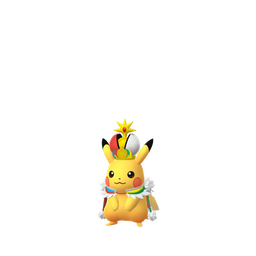
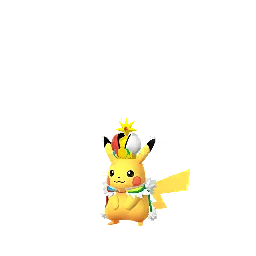
v3.51: Final PokémonXP & 2026 Worlds Pikachu sprites
- Replace the two costume Pikachu sprites with final art (regular + shiny): Cosmog-themed spacesuit Pikachu (0025_cosmog-spacesuit) and World Championships 2026 Pikachu (0025_worlds2026), converted from official 256x256 sources, transparency preserved
- Cache version bump to 3.51 (app.js + sw.js) so returning visitors' caches refresh to the new sprites (filenames unchanged from 3.50)

Changed region(s): [[0.375, 0.4375, 0.75, 0.9062]]

diff --git a/app.js b/app.js
@@ -1,7 +1,7 @@
 // --- CONSTANTS ---
 const COMMUNITY_NAME = "TrainerWire";
 const COMMUNITY_TAGLINE = "Your Local Pokémon GO Event & News Center";
-const APP_VERSION = "3.50";
+const APP_VERSION = "3.51";
 const REPORT_EMAIL = "reportissue2trainerwire@gmail.com";
 
 // --- POKEMON IMAGE LOOKUP ---
@@ -877,7 +877,7 @@ function buildThunderousDiscovery(teamHat) {
 // --- EVENT DATA ---
 const EVENTS = [
   { id: 148, title: "Pokémon GO Fest: Mega Finale", type: "GO Fest", url: "https://pokemongo.com/en/news/gofest2026-finale-save-the-date", date: "2026-09-05", endDate: "2026-09-06", time: "Time TBA", whenText: "Saturday, September 5 to Sunday, September 6, 2026. Event hours to be announced.", color: "#6C5CE7", icon: "🎉", iconImg: "assets/pokemon-images/GO-Fest/2026/gofest-2026-mega-finale-badge.png", featured: true, published: "2026-07-18", updated: "2026-07-28", lastUpdated: "July 28, 2026 at 11:44 AM", summary: "Save the date! Pokémon GO Fest 2026 wraps up with the Mega Finale on September 5–6, 2026. Event hours and full details to be announced.", details: { bosses: ["Details: TBA"], bonuses: ["Event features and bonuses to be announced"], tips: ["Save the date — September 5–6, 2026 (Saturday & Sunday).", "Event hours and full details will be announced closer to the date."] } },
-  { id: 125, title: "PokémonXP & 2026 Worlds", type: "Event", url: "https://pokemongo.com/en/news/world-championships-event-2026", date: "2026-08-25", endDate: "2026-08-30", startsAt: "2026-08-25T10:00:00", endsAt: "2026-08-30T20:00:00", published: "2026-07-22", updated: "2026-08-05", lastUpdated: "August 5, 2026 at 1:55 PM", time: "Aug 25 – Aug 30", whenText: "PokémonXP runs Tuesday, August 25 at 10:00 a.m. to Friday, August 28 at 10:00 a.m., and the World Championships event runs Friday, August 28 at 10:00 a.m. to Sunday, August 30 at 8:00 p.m., all local time. The 2026 Pokémon World Championships are held August 28–30 in San Francisco, California, with live streams starting at 9:00 a.m. PDT each day.", color: "#8E44AD", icon: "🏆", featured: false, summary: "Pokémon GO celebrates PokémonXP and the 2026 Pokémon World Championships! The top qualifying players from around the globe compete August 28–30 in San Francisco to be crowned the 2026 Pokémon GO World Champion, with the winner earning the World Champion 2026 avatar outfit. In-game, the PokémonXP event runs August 25–28 and the World Championships event runs August 28–30 — featuring two new costumed Pikachu, themed wild encounters and one-star raids, a free PokémonXP & 2026 Worlds GO Pass, boosted GO Battle League bonuses, Championship-exclusive featured attacks, and watch-reward Timed Research.", details: { bossesTitle: "Featured Pokémon", bosses: ["Pikachu wearing a Cosmog-themed spacesuit (1★ Raid) ✨", "World Championships 2026 Pikachu (1★ Raid) ✨", "Impidimp (1★ Raid)", "Honedge (1★ Raid)", "Ralts ✨", "Numel ✨", "Spheal ✨", "Drifloon ✨", "Elgyem ✨", "Sobble ✨", "Pawmi ✨", "Deino ✨", "Alolan Sandshrew ✨", "Mankey ✨", "Lickitung ✨", "Totodile ✨", "Wooper ✨", "Foongus ✨", "Froakie ✨", "Litten ✨", "Togetic ✨", "Beldum ✨"], bonuses: ["GO Battle League: the maximum number of daily battle sets increases from 5 to 15 (up to 75 battles per day).", "GO Battle League reward Pokémon have a wider variance of Attack, Defense, and HP.", "No daily limit on GO Points earned from August 29 at 12:00 a.m. through August 30 at 7:59 p.m.", "Event-themed Stickers available from PokéStops, Gifts, and the in-game shop."], milestones: [{ tier: "Starting at Rank 10", bonus: "2× Stardust for catching Pokémon" }, { tier: "Starting at Rank 20", bonus: "Free GO Pass: an additional 3,000 XP from raids", deluxe: "Up to two additional free Raid Passes from spinning Gym Photo Discs" }], goPass: { free: ["Automatically received August 25 at 10:00 a.m. local time", "Collect GO Points to rank up and earn event-themed Pokémon encounters", "Rewards expire September 1 at 7:59 p.m. local time — claim them before they're gone"], deluxe: { price: "$4.99", rewards: ["Upgraded rewards and faster progression", "PokémonXP & 2026 Worlds Backpack avatar item", "Zapdos encounter with a wider stat variance", "Additional event-themed Pokémon encounters", "Additional exclusive items"] }, deluxePlus: { price: "$6.99", rewards: ["Everything in GO Pass Deluxe", "Automatic advancement to Rank 7"] } }, tips: ["PokémonXP (Aug 25–28) wild encounters: Ralts, Numel, Spheal, Drifloon, Elgyem, Sobble, Pawmi, and — more rarely — Deino. If you're lucky, you may find a Shiny!", "PokémonXP (Aug 25–28) one-star raids: Pikachu wearing a Cosmog-themed spacesuit and Impidimp.", "World Championships (Aug 28–30) wild encounters: Alolan Sandshrew, Mankey, Lickitung, Totodile, Wooper, Foongus, Froakie, Litten, and — more rarely — Togetic and Beldum. If you're lucky, you may find a Shiny!", "World Championships (Aug 28–30) one-star raids: Pikachu wearing a Cosmog-themed spacesuit, World Championships 2026 Pikachu, and Honedge.", "New costumed Pikachu debut this event: Pikachu wearing a Cosmog-themed spacesuit and World Championships 2026 Pikachu.", "Featured Attacks — Fast: Alolan Sandslash learns Shadow Claw; Walrein learns Powder Snow.", "Featured Attacks — Charged: Primeape (Rage Fist), Lickitung (Body Slam), Feraligatr (Hydro Cannon), Quagsire (Aqua Tail), Gardevoir (Synchronoise), Walrein (Icicle Spear), Metagross (Meteor Mash), Lickilicky (Body Slam), Togekiss (Aura Sphere), Gallade (Synchronoise), Hydreigon (Brutal Swing), Greninja (Hydro Cannon), Decidueye (Frenzy Plant), Incineroar (Blast Burn), Inteleon (Hydro Cannon), Corviknight (Air Cutter), Annihilape (Rage Fist).", "Timed Research — Team Building: Great League Bonus: watch 30 minutes to choose a Lickitung, Totodile, or Paldean Wooper team-building branch.", "Timed Research — 2025 World Champion's: watch 60 minutes for Tinkaton (used by 2025 Champion Beezleboy, with a unique background) plus an Elite Charged TM.", "Timed Research — Greetings from San Francisco! Bonus: watch 45 minutes (via official co-streamers) for a World Championships 2026 Pikachu encounter.", "Timed Research — PokémonXP: watch 30 minutes on the PokémonXP Twitch channel (Saturday, August 29) for a Pikachu wearing a Cosmog-themed spacesuit.", "Free avatar item: redeem a code shared during the World Championships broadcast for the 2026 Worlds Tee (Green).", "The PokémonXP & 2026 Worlds Backpack avatar item is available in the in-game shop after the event.", "Watch the 2026 Pokémon World Championships live from San Francisco, August 28–30, with streams starting at 9:00 a.m. PDT each day — Days 1 & 2 on the Pokémon GO Twitch channel and Day 3 on the official Pokémon Twitch channel.", "The 2026 Pokémon GO World Champion wins the World Champion 2026 outfit for their avatar."], relatedNews: [{ id: 40, label: "PokémonXP & 2026 Pokémon World Championships — Full Details", icon: "🏆" }] } },
+  { id: 125, title: "PokémonXP & 2026 Worlds", type: "Event", url: "https://pokemongo.com/en/news/world-championships-event-2026", date: "2026-08-25", endDate: "2026-08-30", startsAt: "2026-08-25T10:00:00", endsAt: "2026-08-30T20:00:00", published: "2026-07-22", updated: "2026-08-05", lastUpdated: "August 5, 2026 at 2:12 PM", time: "Aug 25 – Aug 30", whenText: "PokémonXP runs Tuesday, August 25 at 10:00 a.m. to Friday, August 28 at 10:00 a.m., and the World Championships event runs Friday, August 28 at 10:00 a.m. to Sunday, August 30 at 8:00 p.m., all local time. The 2026 Pokémon World Championships are held August 28–30 in San Francisco, California, with live streams starting at 9:00 a.m. PDT each day.", color: "#8E44AD", icon: "🏆", featured: false, summary: "Pokémon GO celebrates PokémonXP and the 2026 Pokémon World Championships! The top qualifying players from around the globe compete August 28–30 in San Francisco to be crowned the 2026 Pokémon GO World Champion, with the winner earning the World Champion 2026 avatar outfit. In-game, the PokémonXP event runs August 25–28 and the World Championships event runs August 28–30 — featuring two new costumed Pikachu, themed wild encounters and one-star raids, a free PokémonXP & 2026 Worlds GO Pass, boosted GO Battle League bonuses, Championship-exclusive featured attacks, and watch-reward Timed Research.", details: { bossesTitle: "Featured Pokémon", bosses: ["Pikachu wearing a Cosmog-themed spacesuit (1★ Raid) ✨", "World Championships 2026 Pikachu (1★ Raid) ✨", "Impidimp (1★ Raid)", "Honedge (1★ Raid)", "Ralts ✨", "Numel ✨", "Spheal ✨", "Drifloon ✨", "Elgyem ✨", "Sobble ✨", "Pawmi ✨", "Deino ✨", "Alolan Sandshrew ✨", "Mankey ✨", "Lickitung ✨", "Totodile ✨", "Wooper ✨", "Foongus ✨", "Froakie ✨", "Litten ✨", "Togetic ✨", "Beldum ✨"], bonuses: ["GO Battle League: the maximum number of daily battle sets increases from 5 to 15 (up to 75 battles per day).", "GO Battle League reward Pokémon have a wider variance of Attack, Defense, and HP.", "No daily limit on GO Points earned from August 29 at 12:00 a.m. through August 30 at 7:59 p.m.", "Event-themed Stickers available from PokéStops, Gifts, and the in-game shop."], milestones: [{ tier: "Starting at Rank 10", bonus: "2× Stardust for catching Pokémon" }, { tier: "Starting at Rank 20", bonus: "Free GO Pass: an additional 3,000 XP from raids", deluxe: "Up to two additional free Raid Passes from spinning Gym Photo Discs" }], goPass: { free: ["Automatically received August 25 at 10:00 a.m. local time", "Collect GO Points to rank up and earn event-themed Pokémon encounters", "Rewards expire September 1 at 7:59 p.m. local time — claim them before they're gone"], deluxe: { price: "$4.99", rewards: ["Upgraded rewards and faster progression", "PokémonXP & 2026 Worlds Backpack avatar item", "Zapdos encounter with a wider stat variance", "Additional event-themed Pokémon encounters", "Additional exclusive items"] }, deluxePlus: { price: "$6.99", rewards: ["Everything in GO Pass Deluxe", "Automatic advancement to Rank 7"] } }, tips: ["PokémonXP (Aug 25–28) wild encounters: Ralts, Numel, Spheal, Drifloon, Elgyem, Sobble, Pawmi, and — more rarely — Deino. If you're lucky, you may find a Shiny!", "PokémonXP (Aug 25–28) one-star raids: Pikachu wearing a Cosmog-themed spacesuit and Impidimp.", "World Championships (Aug 28–30) wild encounters: Alolan Sandshrew, Mankey, Lickitung, Totodile, Wooper, Foongus, Froakie, Litten, and — more rarely — Togetic and Beldum. If you're lucky, you may find a Shiny!", "World Championships (Aug 28–30) one-star raids: Pikachu wearing a Cosmog-themed spacesuit, World Championships 2026 Pikachu, and Honedge.", "New costumed Pikachu debut this event: Pikachu wearing a Cosmog-themed spacesuit and World Championships 2026 Pikachu.", "Featured Attacks — Fast: Alolan Sandslash learns Shadow Claw; Walrein learns Powder Snow.", "Featured Attacks — Charged: Primeape (Rage Fist), Lickitung (Body Slam), Feraligatr (Hydro Cannon), Quagsire (Aqua Tail), Gardevoir (Synchronoise), Walrein (Icicle Spear), Metagross (Meteor Mash), Lickilicky (Body Slam), Togekiss (Aura Sphere), Gallade (Synchronoise), Hydreigon (Brutal Swing), Greninja (Hydro Cannon), Decidueye (Frenzy Plant), Incineroar (Blast Burn), Inteleon (Hydro Cannon), Corviknight (Air Cutter), Annihilape (Rage Fist).", "Timed Research — Team Building: Great League Bonus: watch 30 minutes to choose a Lickitung, Totodile, or Paldean Wooper team-building branch.", "Timed Research — 2025 World Champion's: watch 60 minutes for Tinkaton (used by 2025 Champion Beezleboy, with a unique background) plus an Elite Charged TM.", "Timed Research — Greetings from San Francisco! Bonus: watch 45 minutes (via official co-streamers) for a World Championships 2026 Pikachu encounter.", "Timed Research — PokémonXP: watch 30 minutes on the PokémonXP Twitch channel (Saturday, August 29) for a Pikachu wearing a Cosmog-themed spacesuit.", "Free avatar item: redeem a code shared during the World Championships broadcast for the 2026 Worlds Tee (Green).", "The PokémonXP & 2026 Worlds Backpack avatar item is available in the in-game shop after the event.", "Watch the 2026 Pokémon World Championships live from San Francisco, August 28–30, with streams starting at 9:00 a.m. PDT each day — Days 1 & 2 on the Pokémon GO Twitch channel and Day 3 on the official Pokémon Twitch channel.", "The 2026 Pokémon GO World Champion wins the World Champion 2026 outfit for their avatar."], relatedNews: [{ id: 40, label: "PokémonXP & 2026 Pokémon World Championships — Full Details", icon: "🏆" }] } },
   { id: 126, title: "Dynamax Magmar", type: "Max Battle", date: "2026-08-03", endDate: "2026-08-09", published: "2026-07-22", updated: "2026-07-22", lastUpdated: "July 22, 2026 at 9:00 AM", time: "Max Battles: Aug 3 – Aug 9", whenText: "Monday, August 3 to Sunday, August 9, 2026, local time.", color: "#E67E22", icon: "🔥", iconImg: "assets/pokemon-images/National-Dex/regular/Gen-1_Kanto/0126.webp", featured: false, summary: "Dynamax Magmar appears in Max Battles at Power Spots throughout Forever Forward, August 3–9. Shiny Magmar available.", details: { bosses: ["Dynamax Magmar ✨"], bonuses: ["Dynamax Magmar in Max Battles August 3–9", "Power Spots all week", "Shiny Magmar available"], tips: ["Magmar (Fire) is weak to Water, Rock, and Ground.", "Evolves into Magmortar with an Elite/King's Rock-style item — bank Candy.", "Shiny Magmar is available; check every encounter."] } },
   { id: 127, title: "Dynamax Beldum", type: "Max Battle", date: "2026-08-10", endDate: "2026-08-16", published: "2026-07-22", updated: "2026-07-22", lastUpdated: "July 22, 2026 at 9:00 AM", time: "Max Battles: Aug 10 – Aug 16", whenText: "Monday, August 10 to Sunday, August 16, 2026, local time.", color: "#7F8C8D", icon: "🧲", iconImg: "assets/pokemon-images/National-Dex/regular/Gen-3_Hoenn/0374.webp", featured: false, summary: "Dynamax Beldum appears in Max Battles at Power Spots, August 10–16. Shiny Beldum available.", details: { bosses: ["Dynamax Beldum ✨"], bonuses: ["Dynamax Beldum in Max Battles August 10–16", "Power Spots all week", "Shiny Beldum available"], tips: ["Beldum (Steel/Psychic) is weak to Fire, Ground, Ghost, and Dark.", "Bank Candy — Metagross is a top Steel/Psychic attacker.", "Shiny Beldum is available; check every encounter."] } },
   { id: 128, title: "Dynamax Magikarp", type: "Max Battle", date: "2026-08-17", endDate: "2026-08-23", published: "2026-07-22", updated: "2026-07-22", lastUpdated: "July 22, 2026 at 9:00 AM", time: "Max Battles: Aug 17 – Aug 23", whenText: "Monday, August 17 to Sunday, August 23, 2026, local time.", color: "#3498DB", icon: "🐟", iconImg: "assets/pokemon-images/National-Dex/regular/Gen-1_Kanto/0129-male.webp", featured: false, summary: "Dynamax Magikarp appears in Max Battles at Power Spots, August 17–23. Shiny Magikarp available.", details: { bosses: ["Dynamax Magikarp ✨"], bonuses: ["Dynamax Magikarp in Max Battles August 17–23", "Power Spots all week", "Shiny Magikarp available"], tips: ["Magikarp (Water) is weak to Grass and Electric.", "Evolves into Gyarados — bank Candy for the Mega Raid rotation.", "Shiny Magikarp is available; check every encounter."] } },

diff --git a/sw.js b/sw.js
@@ -1,4 +1,4 @@
-const CACHE_VERSION = "3.50";
+const CACHE_VERSION = "3.51";
 const CACHE_NAME = `trainerwire-v${CACHE_VERSION}`;
 
 // App shell — pre-cached on install
